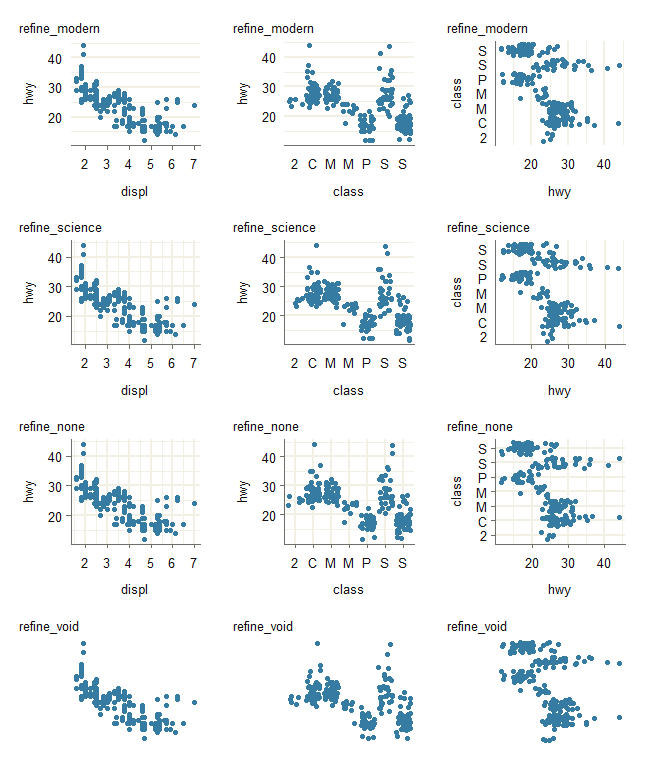
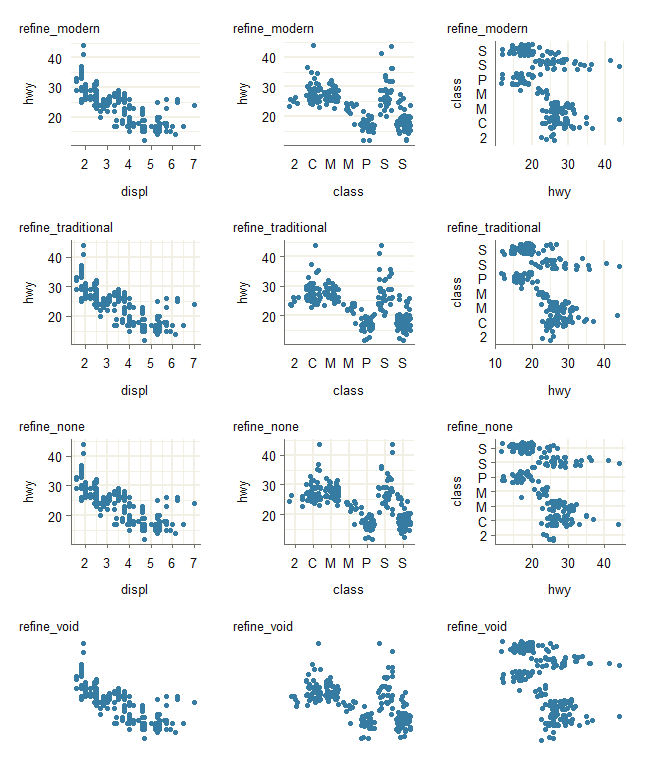
Update

diff --git a/README.md b/README.md
@@ -114,9 +114,9 @@ wrap_plots(
   p_discrete_x + refine_modern(x_type = "discrete",   y_type = "continuous") + labs(title = "refine_modern"),
   p_discrete_y + refine_modern(x_type = "continuous",  y_type = "discrete")  + labs(title = "refine_modern"),
 
-  p_continuous + refine_science(x_type = "continuous", y_type = "continuous") + labs(title = "refine_science"),
-  p_discrete_x + refine_science(x_type = "discrete",   y_type = "continuous") + labs(title = "refine_science"),
-  p_discrete_y + refine_science(x_type = "continuous",  y_type = "discrete")  + labs(title = "refine_science"),
+  p_continuous + refine_traditional(x_type = "continuous", y_type = "continuous") + labs(title = "refine_traditional"),
+  p_discrete_x + refine_traditional(x_type = "discrete",   y_type = "continuous") + labs(title = "refine_traditional"),
+  p_discrete_y + refine_traditional(x_type = "continuous",  y_type = "discrete")  + labs(title = "refine_traditional"),
 
   p_continuous + refine_none(x_type = "continuous", y_type = "continuous") + labs(title = "refine_none"),
   p_discrete_x + refine_none(x_type = "discrete",   y_type = "continuous") + labs(title = "refine_none"),
